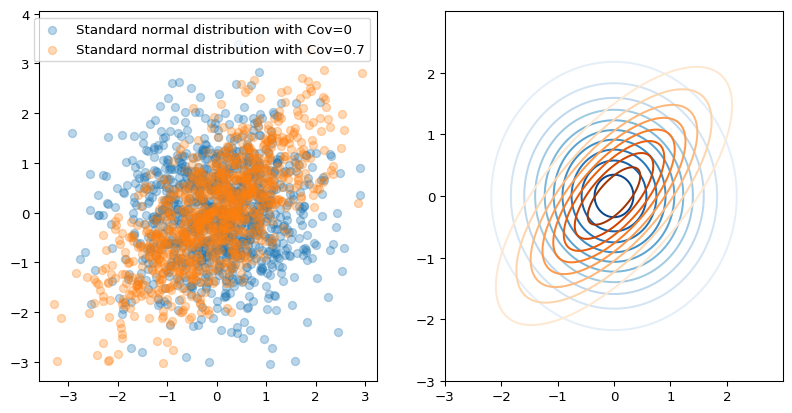
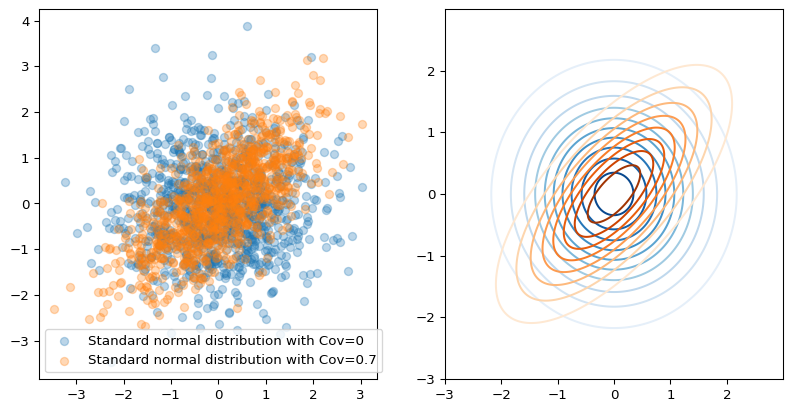
Built site for gh-pages

diff --git a/quant.html b/quant.html
@@ -370,7 +370,7 @@ window.Quarto = {
 </a>
 </div>
 </div>
-<div class="quarto-post image-right" data-index="1" data-listing-file-modified-sort="1773645777157" data-listing-reading-time-sort="8" data-listing-word-count-sort="1451">
+<div class="quarto-post image-right" data-index="1" data-listing-file-modified-sort="1773646342977" data-listing-reading-time-sort="8" data-listing-word-count-sort="1451">
 <div class="thumbnail"><a href="./BIOF2014/1-distribution.html" class="no-external">
 
 <div class="listing-item-img-placeholder card-img-top" >&nbsp;</div>
@@ -389,7 +389,7 @@ window.Quarto = {
 </a>
 </div>
 </div>
-<div class="quarto-post image-right" data-index="2" data-listing-file-modified-sort="1773645813950" data-listing-reading-time-sort="13" data-listing-word-count-sort="2443">
+<div class="quarto-post image-right" data-index="2" data-listing-file-modified-sort="1773646337700" data-listing-reading-time-sort="13" data-listing-word-count-sort="2443">
 <div class="thumbnail"><a href="./BIOF2014/2-Discrete distribution family.html" class="no-external">
 
 <div class="listing-item-img-placeholder card-img-top" >&nbsp;</div>
@@ -408,7 +408,7 @@ window.Quarto = {
 </a>
 </div>
 </div>
-<div class="quarto-post image-right" data-index="3" data-listing-file-modified-sort="1773645820599" data-listing-reading-time-sort="8" data-listing-word-count-sort="1511">
+<div class="quarto-post image-right" data-index="3" data-listing-file-modified-sort="1773646333604" data-listing-reading-time-sort="8" data-listing-word-count-sort="1511">
 <div class="thumbnail"><a href="./BIOF2014/3-multivariate.html" class="no-external">
 
 <div class="listing-item-img-placeholder card-img-top" >&nbsp;</div>
@@ -427,7 +427,7 @@ window.Quarto = {
 </a>
 </div>
 </div>
-<div class="quarto-post image-right" data-index="4" data-listing-file-modified-sort="1773645823836" data-listing-reading-time-sort="19" data-listing-word-count-sort="3768">
+<div class="quarto-post image-right" data-index="4" data-listing-file-modified-sort="1773646328764" data-listing-reading-time-sort="19" data-listing-word-count-sort="3768">
 <div class="thumbnail"><a href="./BIOF2014/4-Discrete distribution family-2.html" class="no-external">
 
 <div class="listing-item-img-placeholder card-img-top" >&nbsp;</div>
@@ -446,7 +446,7 @@ window.Quarto = {
 </a>
 </div>
 </div>
-<div class="quarto-post image-right" data-index="5" data-listing-file-modified-sort="1773645976329" data-listing-reading-time-sort="17" data-listing-word-count-sort="3267">
+<div class="quarto-post image-right" data-index="5" data-listing-file-modified-sort="1773646320094" data-listing-reading-time-sort="17" data-listing-word-count-sort="3267">
 <div class="thumbnail"><a href="./BIOF2014/5-Discrete distribution family-3.html" class="no-external">
 
 <div class="listing-item-img-placeholder card-img-top" >&nbsp;</div>
@@ -472,7 +472,7 @@ window.Quarto = {
 <h4 class="anchored">Class sketches</h4>
 <div id="listing-2014sketches" class="quarto-listing quarto-listing-container-default">
 <div class="list quarto-listing-default">
-<div class="quarto-post image-right" data-index="0" data-listing-file-modified-sort="1773645795999" data-listing-reading-time-sort="12" data-listing-word-count-sort="2357">
+<div class="quarto-post image-right" data-index="0" data-listing-file-modified-sort="1773646377839" data-listing-reading-time-sort="12" data-listing-word-count-sort="2357">
 <div class="thumbnail"><a href="./BIOF2014/1-distribution_sketch.html" class="no-external">
 
 <div class="listing-item-img-placeholder card-img-top" >&nbsp;</div>
@@ -491,7 +491,7 @@ window.Quarto = {
 </a>
 </div>
 </div>
-<div class="quarto-post image-right" data-index="1" data-listing-file-modified-sort="1773645809165" data-listing-reading-time-sort="14" data-listing-word-count-sort="2619">
+<div class="quarto-post image-right" data-index="1" data-listing-file-modified-sort="1773646340235" data-listing-reading-time-sort="14" data-listing-word-count-sort="2619">
 <div class="thumbnail"><a href="./BIOF2014/2-Discrete distribution family_sketch.html" class="no-external">
 
 <div class="listing-item-img-placeholder card-img-top" >&nbsp;</div>
@@ -510,7 +510,7 @@ window.Quarto = {
 </a>
 </div>
 </div>
-<div class="quarto-post image-right" data-index="2" data-listing-file-modified-sort="1773645817939" data-listing-reading-time-sort="8" data-listing-word-count-sort="1510">
+<div class="quarto-post image-right" data-index="2" data-listing-file-modified-sort="1773646335487" data-listing-reading-time-sort="8" data-listing-word-count-sort="1510">
 <div class="thumbnail"><a href="./BIOF2014/3-multivariate_sketch.html" class="no-external">
 
 <div class="listing-item-img-placeholder card-img-top" >&nbsp;</div>

diff --git a/BIOF2014/4-Discrete distribution family-2.html b/BIOF2014/4-Discrete distribution family-2.html
@@ -244,7 +244,7 @@ p(X=i)=p_i
 <ul>
 <li>You can view the Dirichlet distribution as a multivariate version of the Beta distribution.</li>
 </ul>
-<div id="f1a8acb5" class="cell" data-execution_count="1">
+<div id="8b44fd9d" class="cell" data-execution_count="1">
 <div class="cell-output cell-output-display">
 <div>
 <figure>
@@ -331,7 +331,7 @@ P(x_{N+1} = j \mid D, \mathbf{\alpha}) = \frac{\alpha_j + c_j}{\sum_{i=1}^K (\al
 <section id="illustration-of-dirichlet-prior" class="slide level2 smaller">
 <h2>Illustration of Dirichlet Prior</h2>
 <p>Dirichlet prior adds a psuedo <span class="math inline">\(\alpha\)</span> observations. (The observed data is [8,2,2])</p>
-<div id="f692b95c" class="cell" data-execution_count="2">
+<div id="4b7061cb" class="cell" data-execution_count="2">
 <div class="cell-output cell-output-display">
 <div>
 <figure>
@@ -381,7 +381,7 @@ P(\textbf{p} \mid \mathbf{x}, \mathbf{\alpha}) \propto \left( \prod_{i=1}^K p_i^
 \]</span></p>
 </div>
 <p><strong>Interpretation</strong>: The <span class="math inline">\(\alpha_i\)</span> values act as “imaginary” observations seen before the experiment.</p>
-<div id="45bca3f5" class="cell" data-execution_count="3">
+<div id="edc9cb77" class="cell" data-execution_count="3">
 <div class="cell-output cell-output-display">
 <div>
 <figure>
@@ -502,7 +502,7 @@ p(x)=\frac{e^{\alpha+\beta x}}{1+e^{\alpha+\beta x}}
 \]</span></p>
 </div><div class="column">
 <p>For a dichotomous predictor <span class="math inline">\(x\)</span> with values 0 and 1, <span class="math inline">\(\beta\)</span> is the log odds ratio (<span class="math inline">\(\log(\text{OR})\)</span>).</p>
-<div id="2af7f005" class="cell" data-execution_count="4">
+<div id="2e9bbb22" class="cell" data-execution_count="4">
 <div class="cell-output cell-output-display">
 <div>
 <figure>
@@ -633,7 +633,7 @@ p(x)=\frac{e^{\alpha+\beta x}}{1+e^{\alpha+\beta x}}
 </table>
 </div><div class="column" style="width:50%;">
 <p>Model: (Success/Fail) ~ Stone size + Treatment</p>
-<div id="15e6b545" class="cell" data-execution_count="5">
+<div id="13d83c97" class="cell" data-execution_count="5">
 <div class="cell-output cell-output-stdout">
 <pre><code>
 -- Log Odds Ratios &amp; CI w/o Control Stone Size --
@@ -669,7 +669,7 @@ P(x \leq k)=p(x=1) + \dots + p(x=k), \text{where } p(x\leq K) = 1
 <section id="ordinal-logistic-regression-1" class="slide level2 smaller">
 <h2>Ordinal logistic regression</h2>
 <p>Illustration: <span class="math inline">\(\alpha_{-1}=-3,\alpha_{0}=2, \beta=1.5\)</span></p>
-<div id="fc55799d" class="cell" data-execution_count="6">
+<div id="b924ecf5" class="cell" data-execution_count="6">
 <div class="cell-output cell-output-display">
 <div>
 <figure>

diff --git a/BIOF2014/5-Discrete distribution family-3.html b/BIOF2014/5-Discrete distribution family-3.html
@@ -207,7 +207,7 @@ P( X = x) = \frac{\lambda^x}{x!}\exp(-\lambda)
 </section>
 <section id="illustration" class="slide level2">
 <h2>Illustration</h2>
-<div id="ede4a87d" class="cell" data-execution_count="1">
+<div id="9f8426f3" class="cell" data-execution_count="1">
 <div class="cell-output cell-output-display">
 <div>
 <figure>
@@ -228,7 +228,7 @@ P( X = x) = \frac{\lambda^x}{x!}\exp(-\lambda)
 </section>
 <section id="illustration-1" class="slide level2">
 <h2>Illustration</h2>
-<div id="af2046f7" class="cell" data-execution_count="2">
+<div id="21423b67" class="cell" data-execution_count="2">
 <div class="cell-output cell-output-display">
 <div>
 <figure>
@@ -250,7 +250,7 @@ P( X = x) = \frac{\lambda^x}{x!}\exp(-\lambda)
 </section>
 <section id="illustration-2" class="slide level2">
 <h2>Illustration</h2>
-<div id="7340c743" class="cell" data-execution_count="3">
+<div id="13ab580d" class="cell" data-execution_count="3">
 <div class="cell-output cell-output-display">
 <div>
 <figure>
@@ -366,7 +366,7 @@ e^{-n\lambda}\lambda^{\sum x_i}\lambda^{\alpha-1}e^{-\beta\lambda} \\ \propto &a
 </section>
 <section id="illustration-3" class="slide level2 smaller">
 <h2>Illustration</h2>
-<div id="ec7838e1" class="cell" data-execution_count="4">
+<div id="7bcf41d9" class="cell" data-execution_count="4">
 <div class="cell-output cell-output-display">
 <div>
 <figure>
@@ -379,7 +379,7 @@ e^{-n\lambda}\lambda^{\sum x_i}\lambda^{\alpha-1}e^{-\beta\lambda} \\ \propto &a
 <section id="posterior-predictive-distribution" class="slide level2 smaller">
 <h2>Posterior predictive distribution</h2>
 <p>The posterior predicitive distribution of <span class="math inline">\(p(\tilde{x}|\text{data})\)</span> follows Negative binomial distribution</p>
-<div id="3bfc8215" class="cell" data-execution_count="5">
+<div id="84a49641" class="cell" data-execution_count="5">
 <div class="cell-output cell-output-display">
 <div>
 <figure>
@@ -415,7 +415,7 @@ p(\lambda\mid x_1\dots x_i) \propto &amp; \quad p( x_1\dots x_i \mid\lambda)\tex
 </section>
 <section id="illustration-4" class="slide level2">
 <h2>Illustration</h2>
-<div id="ce65bbd5" class="cell" data-execution_count="6">
+<div id="955b5a4e" class="cell" data-execution_count="6">
 <div class="cell-output cell-output-display">
 <div>
 <figure>

diff --git a/BIOF2014/1-distribution_sketch.html b/BIOF2014/1-distribution_sketch.html
@@ -380,16 +380,11 @@ f_X(x) =
 <li><p>Variance: <span class="math inline">\((b-a)^2/12\)</span></p></li>
 </ul>
 </div><div class="column" style="width:50%;">
-<div id="cell-fig-unifm" class="cell" data-execution_count="1">
+<div id="b3f5ceb7" class="cell" data-execution_count="1">
 <div class="cell-output cell-output-display">
-<div id="fig-unifm" class="quarto-float quarto-figure quarto-figure-center">
-<figure class="quarto-float quarto-float-fig">
-<div aria-describedby="fig-unifm-caption-0ceaefa1-69ba-4598-a22c-09a6ac19f8ca">
-<a href="1-distribution_sketch_files/figure-revealjs/fig-unifm-output-1.png" class="lightbox" data-gallery="quarto-lightbox-gallery-1" title="Figure&nbsp;1: uniform(3,7)"><img data-src="1-distribution_sketch_files/figure-revealjs/fig-unifm-output-1.png"></a>
-</div>
-<figcaption class="quarto-float-caption-bottom quarto-float-caption quarto-float-fig" id="fig-unifm-caption-0ceaefa1-69ba-4598-a22c-09a6ac19f8ca">
-Figure&nbsp;1: uniform(3,7)
-</figcaption>
+<div>
+<figure>
+<p><a href="1-distribution_sketch_files/figure-revealjs/cell-2-output-1.png" class="lightbox" data-gallery="quarto-lightbox-gallery-1"><img data-src="1-distribution_sketch_files/figure-revealjs/cell-2-output-1.png"></a></p>
 </figure>
 </div>
 </div>
@@ -454,7 +449,7 @@ Figure&nbsp;1: uniform(3,7)
 </div><div class="column" style="width:50%;">
 <p><strong>Example</strong></p>
 <p>Suppose we have observations <span class="math inline">\([1,2,2,2,3,3,4]\)</span> Please plot the empirical pdf and cdf of the observations</p>
-<div id="3e5afbb7" class="cell" data-execution_count="2">
+<div id="43872963" class="cell" data-execution_count="2">
 <div class="cell-output cell-output-display">
 <div>
 <figure>
@@ -496,7 +491,7 @@ v = F^{-1}(x)
 \]</span></p>
 <p><strong>Example</strong></p>
 <p>Suppose we have observations <span class="math inline">\([1,2,2,2,3,3,4]\)</span> Please plot the empirical cdf and inverse cdf of the observations</p>
-<div id="80261c4e" class="cell" data-execution_count="4">
+<div id="266d4931" class="cell" data-execution_count="4">
 <div class="cell-output cell-output-display">
 <div>
 <figure>

diff --git a/BIOF2014/1-distribution.html b/BIOF2014/1-distribution.html
@@ -378,16 +378,11 @@ f_X(x) =
 <li><p>Variance: <span class="math inline">\((b-a)^2/12\)</span></p></li>
 </ul>
 </div><div class="column" style="width:50%;">
-<div id="cell-fig-unifm" class="cell" data-execution_count="1">
+<div id="33682208" class="cell" data-execution_count="1">
 <div class="cell-output cell-output-display">
-<div id="fig-unifm" class="quarto-float quarto-figure quarto-figure-center">
-<figure class="quarto-float quarto-float-fig">
-<div aria-describedby="fig-unifm-caption-0ceaefa1-69ba-4598-a22c-09a6ac19f8ca">
-<a href="1-distribution_files/figure-revealjs/fig-unifm-output-1.png" class="lightbox" data-gallery="quarto-lightbox-gallery-1" title="Figure&nbsp;1: uniform(3,7)"><img data-src="1-distribution_files/figure-revealjs/fig-unifm-output-1.png"></a>
-</div>
-<figcaption class="quarto-float-caption-bottom quarto-float-caption quarto-float-fig" id="fig-unifm-caption-0ceaefa1-69ba-4598-a22c-09a6ac19f8ca">
-Figure&nbsp;1: uniform(3,7)
-</figcaption>
+<div>
+<figure>
+<p><a href="1-distribution_files/figure-revealjs/cell-2-output-1.png" class="lightbox" data-gallery="quarto-lightbox-gallery-1"><img data-src="1-distribution_files/figure-revealjs/cell-2-output-1.png"></a></p>
 </figure>
 </div>
 </div>
@@ -452,7 +447,7 @@ Figure&nbsp;1: uniform(3,7)
 </div><div class="column" style="width:50%;">
 <p><strong>Example</strong></p>
 <p>Suppose we have observations <span class="math inline">\([1,2,2,2,3,3,4]\)</span> Please plot the empirical pdf and cdf of the observations</p>
-<div id="211a2144" class="cell" data-execution_count="2">
+<div id="7953c4d6" class="cell" data-execution_count="2">
 <div class="cell-output cell-output-display">
 <div>
 <figure>
@@ -494,7 +489,7 @@ v = F^{-1}(x)
 \]</span></p>
 <p><strong>Example</strong></p>
 <p>Suppose we have observations <span class="math inline">\([1,2,2,2,3,3,4]\)</span> Please plot the empirical cdf and inverse cdf of the observations</p>
-<div id="c7a7fe05" class="cell" data-execution_count="4">
+<div id="32dea0b1" class="cell" data-execution_count="4">
 <div class="cell-output cell-output-display">
 <div>
 <figure>

diff --git a/BIOF2014/2-Discrete distribution family.html b/BIOF2014/2-Discrete distribution family.html
@@ -301,7 +301,7 @@ P_Y \left( y \right)
 </section>
 <section id="illustration" class="slide level2">
 <h2>Illustration</h2>
-<div id="e7b72376" class="cell" data-execution_count="1">
+<div id="f74a0c39" class="cell" data-execution_count="1">
 <div class="cell-output cell-output-display">
 <div>
 <figure>
@@ -362,7 +362,7 @@ P\left( X = x \mid r, p \right) \; = \;
 </section>
 <section id="illustration-1" class="slide level2">
 <h2>Illustration</h2>
-<div id="92dd882d" class="cell" data-execution_count="2">
+<div id="0dde710d" class="cell" data-execution_count="2">
 <div class="cell-output cell-output-display">
 <div>
 <figure>
@@ -401,7 +401,7 @@ p (1 - p)^{x - 1}
 </section>
 <section id="illustration-2" class="slide level2">
 <h2>Illustration</h2>
-<div id="e29b2989" class="cell" data-execution_count="3">
+<div id="828105b8" class="cell" data-execution_count="3">
 <div class="cell-output cell-output-display">
 <div>
 <figure>

diff --git a/BIOF2014/2-Discrete distribution family_sketch.html b/BIOF2014/2-Discrete distribution family_sketch.html
@@ -302,7 +302,7 @@ P_Y \left( y \right)
 </section>
 <section id="illustration" class="slide level2">
 <h2>Illustration</h2>
-<div id="44e95148" class="cell" data-execution_count="1">
+<div id="6e004c2c" class="cell" data-execution_count="1">
 <div class="cell-output cell-output-display">
 <div>
 <figure>
@@ -363,7 +363,7 @@ P\left( X = x \mid r, p \right) \; = \;
 </section>
 <section id="illustration-1" class="slide level2">
 <h2>Illustration</h2>
-<div id="16cdeb64" class="cell" data-execution_count="2">
+<div id="895ae6c1" class="cell" data-execution_count="2">
 <div class="cell-output cell-output-display">
 <div>
 <figure>
@@ -402,7 +402,7 @@ p (1 - p)^{x - 1}
 </section>
 <section id="illustration-2" class="slide level2">
 <h2>Illustration</h2>
-<div id="204ac713" class="cell" data-execution_count="3">
+<div id="0dd193d9" class="cell" data-execution_count="3">
 <div class="cell-output cell-output-display">
 <div>
 <figure>

diff --git a/BIOF2014/3-multivariate.html b/BIOF2014/3-multivariate.html
@@ -240,7 +240,7 @@ f_{X, Y}(x, y) \ge 0 \quad \forall \, (x, y) \in \mathcal{R}^2
 </section>
 <section id="example" class="slide level2 smaller">
 <h2>Example</h2>
-<div id="ef46a7dc" class="cell" data-execution_count="1">
+<div id="5cd1057f" class="cell" data-execution_count="1">
 <div class="cell-output cell-output-display">
 <div>
 <figure>

diff --git a/BIOF2014/3-multivariate_sketch.html b/BIOF2014/3-multivariate_sketch.html
@@ -240,7 +240,7 @@ f_{X, Y}(x, y) \ge 0 \quad \forall \, (x, y) \in \mathbb{R}^2
 </section>
 <section id="example" class="slide level2 smaller">
 <h2>Example</h2>
-<div id="85a161cc" class="cell" data-execution_count="1">
+<div id="37b8e290" class="cell" data-execution_count="1">
 <div class="cell-output cell-output-display">
 <div>
 <figure>
